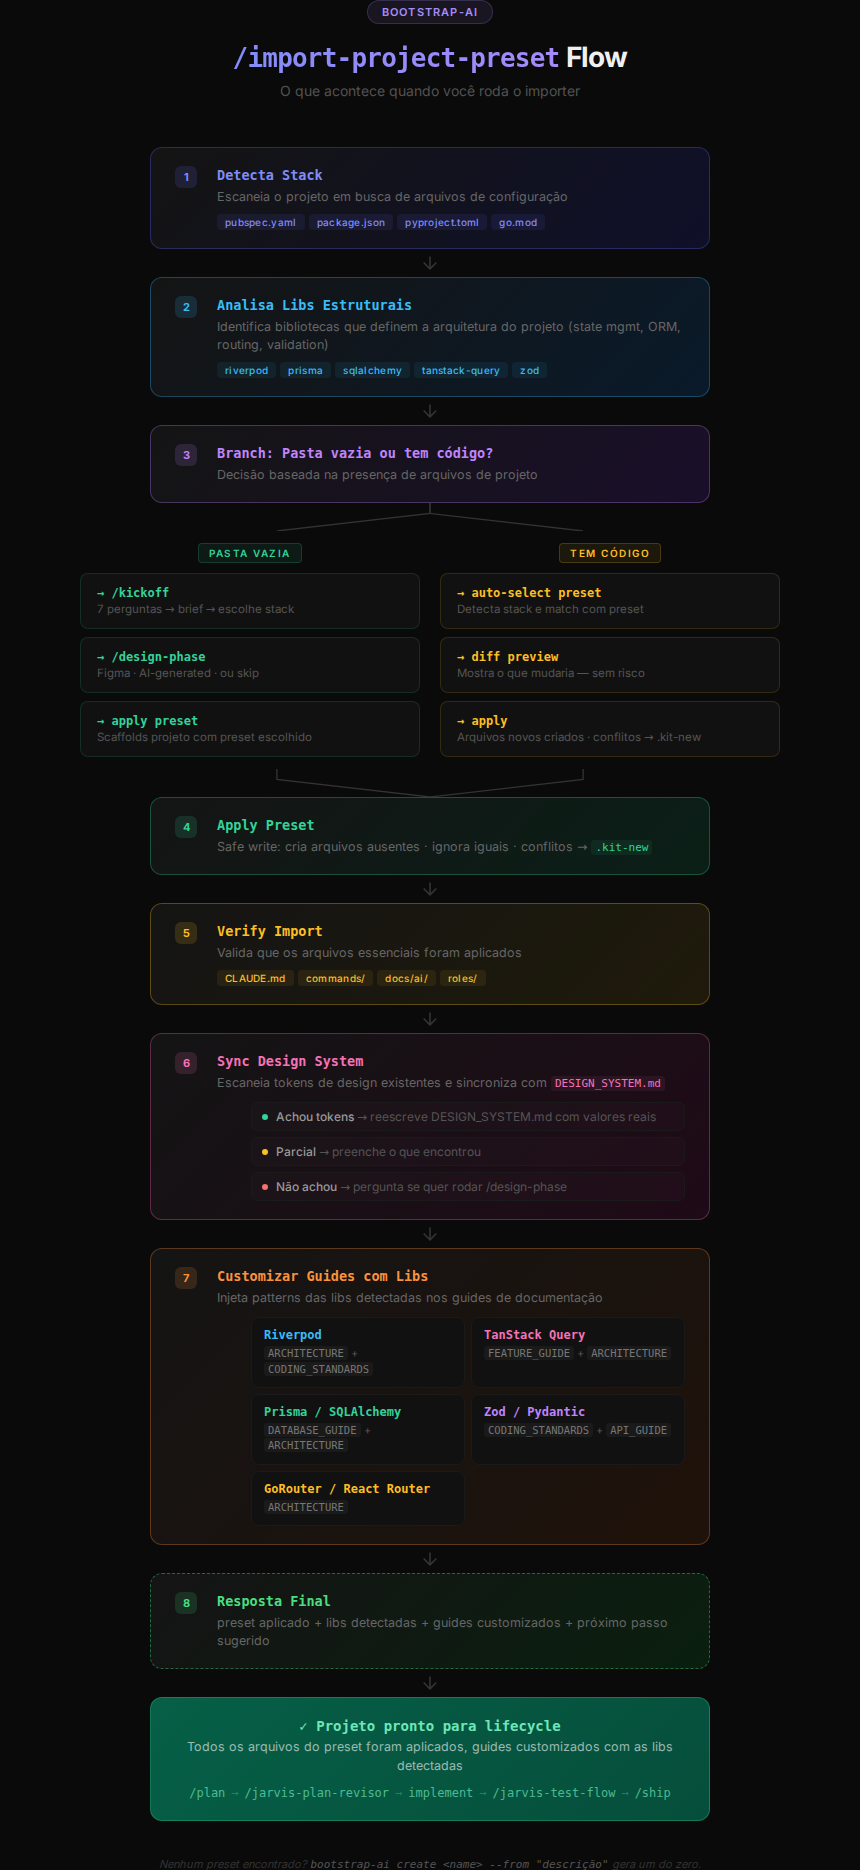
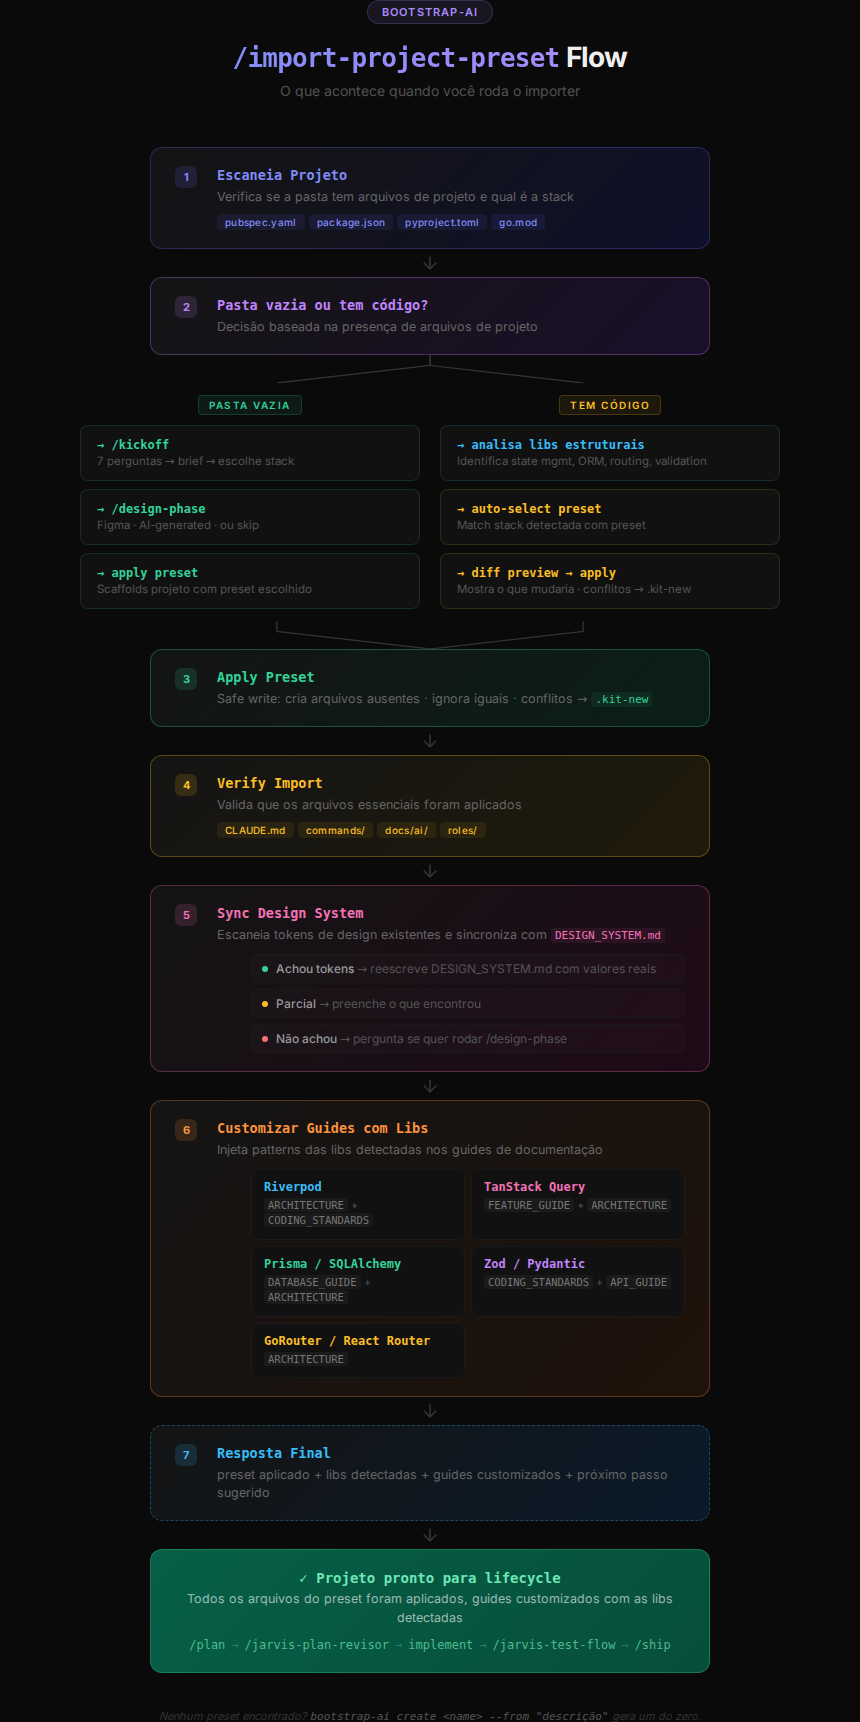
fix: reorder flow diagram — branch before lib analysis
Correct flow:
1. Escaneia projeto (detecta stack ou pasta vazia)
2. Branch: vazio → /kickoff | tem código → analisa libs → select preset
3. Apply preset
4. Verify
5. Sync Design System
6. Customizar Guides com Libs
7. Resposta Final

Lib analysis only happens when folder has code.

Changed region(s): [[0.0907, 0.0616, 0.8465, 0.9849], [0.2721, 0.0, 0.8163, 0.0923], [0.786, 0.3693, 0.8163, 0.4001]]

diff --git a/docs/flow-diagram.html b/docs/flow-diagram.html
@@ -138,29 +138,29 @@
   .step.s1 .cmd { color: #818cf8; }
   .step.s1 .step-num { background: rgba(99,102,241,0.15); color: #818cf8; }
 
-  .step.s2 { border-color: rgba(56,189,248,0.3); background: linear-gradient(135deg, #141414 0%, #0a1a2a 100%); }
-  .step.s2 .cmd { color: #38bdf8; }
-  .step.s2 .step-num { background: rgba(56,189,248,0.15); color: #38bdf8; }
+  .step.s2 { border-color: rgba(192,132,252,0.3); background: linear-gradient(135deg, #141414 0%, #1a0f2a 100%); }
+  .step.s2 .cmd { color: #c084fc; }
+  .step.s2 .step-num { background: rgba(192,132,252,0.15); color: #c084fc; }
 
-  .step.s3 { border-color: rgba(192,132,252,0.3); background: linear-gradient(135deg, #141414 0%, #1a0f2a 100%); }
-  .step.s3 .cmd { color: #c084fc; }
-  .step.s3 .step-num { background: rgba(192,132,252,0.15); color: #c084fc; }
+  .step.s3 { border-color: rgba(52,211,153,0.3); background: linear-gradient(135deg, #141414 0%, #0a1f17 100%); }
+  .step.s3 .cmd { color: #34d399; }
+  .step.s3 .step-num { background: rgba(52,211,153,0.15); color: #34d399; }
 
-  .step.s4 { border-color: rgba(52,211,153,0.3); background: linear-gradient(135deg, #141414 0%, #0a1f17 100%); }
-  .step.s4 .cmd { color: #34d399; }
-  .step.s4 .step-num { background: rgba(52,211,153,0.15); color: #34d399; }
+  .step.s4 { border-color: rgba(251,191,36,0.3); background: linear-gradient(135deg, #141414 0%, #1f1a0a 100%); }
+  .step.s4 .cmd { color: #fbbf24; }
+  .step.s4 .step-num { background: rgba(251,191,36,0.15); color: #fbbf24; }
 
-  .step.s5 { border-color: rgba(251,191,36,0.3); background: linear-gradient(135deg, #141414 0%, #1f1a0a 100%); }
-  .step.s5 .cmd { color: #fbbf24; }
-  .step.s5 .step-num { background: rgba(251,191,36,0.15); color: #fbbf24; }
+  .step.s5 { border-color: rgba(244,114,182,0.3); background: linear-gradient(135deg, #141414 0%, #1f0a17 100%); }
+  .step.s5 .cmd { color: #f472b6; }
+  .step.s5 .step-num { background: rgba(244,114,182,0.15); color: #f472b6; }
 
-  .step.s6 { border-color: rgba(244,114,182,0.3); background: linear-gradient(135deg, #141414 0%, #1f0a17 100%); }
-  .step.s6 .cmd { color: #f472b6; }
-  .step.s6 .step-num { background: rgba(244,114,182,0.15); color: #f472b6; }
+  .step.s6 { border-color: rgba(251,146,60,0.3); background: linear-gradient(135deg, #141414 0%, #1f120a 100%); }
+  .step.s6 .cmd { color: #fb923c; }
+  .step.s6 .step-num { background: rgba(251,146,60,0.15); color: #fb923c; }
 
-  .step.s7 { border-color: rgba(251,146,60,0.3); background: linear-gradient(135deg, #141414 0%, #1f120a 100%); }
-  .step.s7 .cmd { color: #fb923c; }
-  .step.s7 .step-num { background: rgba(251,146,60,0.15); color: #fb923c; }
+  .step.s7 { border-color: rgba(56,189,248,0.3); background: linear-gradient(135deg, #141414 0%, #0a1a2a 100%); }
+  .step.s7 .cmd { color: #38bdf8; }
+  .step.s7 .step-num { background: rgba(56,189,248,0.15); color: #38bdf8; }
 
   .step.s8 { border-color: rgba(74,222,128,0.4); background: linear-gradient(135deg, #141414 0%, #0a1f0f 100%); }
   .step.s8 .cmd { color: #4ade80; }
@@ -235,8 +235,10 @@
   .sub-step.green .cmd { color: #34d399; }
   .sub-step.orange { border-color: rgba(251,191,36,0.15); }
   .sub-step.orange .cmd { color: #fbbf24; }
+  .sub-step.blue { border-color: rgba(56,189,248,0.15); }
+  .sub-step.blue .cmd { color: #38bdf8; }
 
-  /* ── Sub-branch (step 6) ── */
+  /* ── Sub-branch ── */
   .sub-branch {
     display: flex;
     flex-direction: column;
@@ -269,7 +271,7 @@
     color: #555;
   }
 
-  /* ── Library Mapping Grid (step 7) ── */
+  /* ── Library Mapping Grid ── */
   .lib-grid {
     display: grid;
     grid-template-columns: 1fr 1fr;
@@ -351,14 +353,6 @@
   }
   .merge-connector svg { width: 100%; height: 28px; }
 
-  /* ── Divider ── */
-  .section-divider {
-    width: 40px;
-    height: 1px;
-    background: #222;
-    margin: 4px auto;
-  }
-
   /* ── Footer ── */
   .footer {
     text-align: center;
@@ -383,12 +377,12 @@
 
   <div class="flow">
 
-    <!-- ════════ STEP 1: Detect Stack ════════ -->
+    <!-- ════════ STEP 1: Escaneia Projeto ════════ -->
     <div class="step s1">
       <div class="step-num">1</div>
       <div class="step-content">
-        <div class="cmd">Detecta Stack</div>
-        <div class="desc">Escaneia o projeto em busca de arquivos de configuração</div>
+        <div class="cmd">Escaneia Projeto</div>
+        <div class="desc">Verifica se a pasta tem arquivos de projeto e qual é a stack</div>
         <div class="tags">
           <span class="tag" style="color:#818cf8;background:rgba(99,102,241,0.1);">pubspec.yaml</span>
           <span class="tag" style="color:#818cf8;background:rgba(99,102,241,0.1);">package.json</span>
@@ -400,29 +394,11 @@
 
     <div class="arrow"><svg viewBox="0 0 24 24" fill="none" stroke="currentColor" stroke-width="2" stroke-linecap="round" stroke-linejoin="round"><path d="M12 5v14m-7-7l7 7 7-7"/></svg></div>
 
-    <!-- ════════ STEP 2: Analisa Libs ════════ -->
+    <!-- ════════ STEP 2: Branch ════════ -->
     <div class="step s2">
       <div class="step-num">2</div>
       <div class="step-content">
-        <div class="cmd">Analisa Libs Estruturais</div>
-        <div class="desc">Identifica bibliotecas que definem a arquitetura do projeto (state mgmt, ORM, routing, validation)</div>
-        <div class="tags">
-          <span class="tag" style="color:#38bdf8;background:rgba(56,189,248,0.08);">riverpod</span>
-          <span class="tag" style="color:#38bdf8;background:rgba(56,189,248,0.08);">prisma</span>
-          <span class="tag" style="color:#38bdf8;background:rgba(56,189,248,0.08);">sqlalchemy</span>
-          <span class="tag" style="color:#38bdf8;background:rgba(56,189,248,0.08);">tanstack-query</span>
-          <span class="tag" style="color:#38bdf8;background:rgba(56,189,248,0.08);">zod</span>
-        </div>
-      </div>
-    </div>
-
-    <div class="arrow"><svg viewBox="0 0 24 24" fill="none" stroke="currentColor" stroke-width="2" stroke-linecap="round" stroke-linejoin="round"><path d="M12 5v14m-7-7l7 7 7-7"/></svg></div>
-
-    <!-- ════════ STEP 3: Branch ════════ -->
-    <div class="step s3">
-      <div class="step-num">3</div>
-      <div class="step-content">
-        <div class="cmd">Branch: Pasta vazia ou tem código?</div>
+        <div class="cmd">Pasta vazia ou tem código?</div>
         <div class="desc">Decisão baseada na presença de arquivos de projeto</div>
       </div>
     </div>
@@ -462,22 +438,22 @@
         <!-- RIGHT: Has Code -->
         <div>
           <div class="branch-label code"><span>Tem código</span></div>
+          <div class="sub-step blue">
+            <div>
+              <div class="cmd">→ analisa libs estruturais</div>
+              <div class="desc">Identifica state mgmt, ORM, routing, validation</div>
+            </div>
+          </div>
           <div class="sub-step orange">
             <div>
               <div class="cmd">→ auto-select preset</div>
-              <div class="desc">Detecta stack e match com preset</div>
+              <div class="desc">Match stack detectada com preset</div>
             </div>
           </div>
           <div class="sub-step orange">
             <div>
-              <div class="cmd">→ diff preview</div>
-              <div class="desc">Mostra o que mudaria — sem risco</div>
-            </div>
-          </div>
-          <div class="sub-step orange">
-            <div>
-              <div class="cmd">→ apply</div>
-              <div class="desc">Arquivos novos criados · conflitos → .kit-new</div>
+              <div class="cmd">→ diff preview → apply</div>
+              <div class="desc">Mostra o que mudaria · conflitos → .kit-new</div>
             </div>
           </div>
         </div>
@@ -492,9 +468,9 @@
       </div>
     </div>
 
-    <!-- ════════ STEP 4: Apply ════════ -->
-    <div class="step s4">
-      <div class="step-num">4</div>
+    <!-- ════════ STEP 3: Apply ════════ -->
+    <div class="step s3">
+      <div class="step-num">3</div>
       <div class="step-content">
         <div class="cmd">Apply Preset</div>
         <div class="desc">Safe write: cria arquivos ausentes · ignora iguais · conflitos → <code style="font-family:'SF Mono',monospace;font-size:11px;color:#34d399;background:rgba(52,211,153,0.08);padding:1px 4px;border-radius:3px;">.kit-new</code></div>
@@ -503,9 +479,9 @@
 
     <div class="arrow"><svg viewBox="0 0 24 24" fill="none" stroke="currentColor" stroke-width="2" stroke-linecap="round" stroke-linejoin="round"><path d="M12 5v14m-7-7l7 7 7-7"/></svg></div>
 
-    <!-- ════════ STEP 5: Verify ════════ -->
-    <div class="step s5">
-      <div class="step-num">5</div>
+    <!-- ════════ STEP 4: Verify ════════ -->
+    <div class="step s4">
+      <div class="step-num">4</div>
       <div class="step-content">
         <div class="cmd">Verify Import</div>
         <div class="desc">Valida que os arquivos essenciais foram aplicados</div>
@@ -520,9 +496,9 @@
 
     <div class="arrow"><svg viewBox="0 0 24 24" fill="none" stroke="currentColor" stroke-width="2" stroke-linecap="round" stroke-linejoin="round"><path d="M12 5v14m-7-7l7 7 7-7"/></svg></div>
 
-    <!-- ════════ STEP 6: Sync Design System ════════ -->
-    <div class="step s6">
-      <div class="step-num">6</div>
+    <!-- ════════ STEP 5: Sync Design System ════════ -->
+    <div class="step s5">
+      <div class="step-num">5</div>
       <div class="step-content">
         <div class="cmd">Sync Design System</div>
         <div class="desc">Escaneia tokens de design existentes e sincroniza com <code style="font-family:'SF Mono',monospace;font-size:11px;color:#f472b6;background:rgba(244,114,182,0.08);padding:1px 4px;border-radius:3px;">DESIGN_SYSTEM.md</code></div>
@@ -545,9 +521,9 @@
 
     <div class="arrow"><svg viewBox="0 0 24 24" fill="none" stroke="currentColor" stroke-width="2" stroke-linecap="round" stroke-linejoin="round"><path d="M12 5v14m-7-7l7 7 7-7"/></svg></div>
 
-    <!-- ════════ STEP 7: Customizar Guides ════════ -->
-    <div class="step s7">
-      <div class="step-num">7</div>
+    <!-- ════════ STEP 6: Customizar Guides ════════ -->
+    <div class="step s6">
+      <div class="step-num">6</div>
       <div class="step-content">
         <div class="cmd">Customizar Guides com Libs</div>
         <div class="desc">Injeta patterns das libs detectadas nos guides de documentação</div>
@@ -578,9 +554,9 @@
 
     <div class="arrow"><svg viewBox="0 0 24 24" fill="none" stroke="currentColor" stroke-width="2" stroke-linecap="round" stroke-linejoin="round"><path d="M12 5v14m-7-7l7 7 7-7"/></svg></div>
 
-    <!-- ════════ STEP 8: Result ════════ -->
-    <div class="step s8" style="border-style:dashed;">
-      <div class="step-num">8</div>
+    <!-- ════════ STEP 7: Resposta Final ════════ -->
+    <div class="step s7" style="border-style:dashed;">
+      <div class="step-num">7</div>
       <div class="step-content">
         <div class="cmd">Resposta Final</div>
         <div class="desc">preset aplicado + libs detectadas + guides customizados + próximo passo sugerido</div>